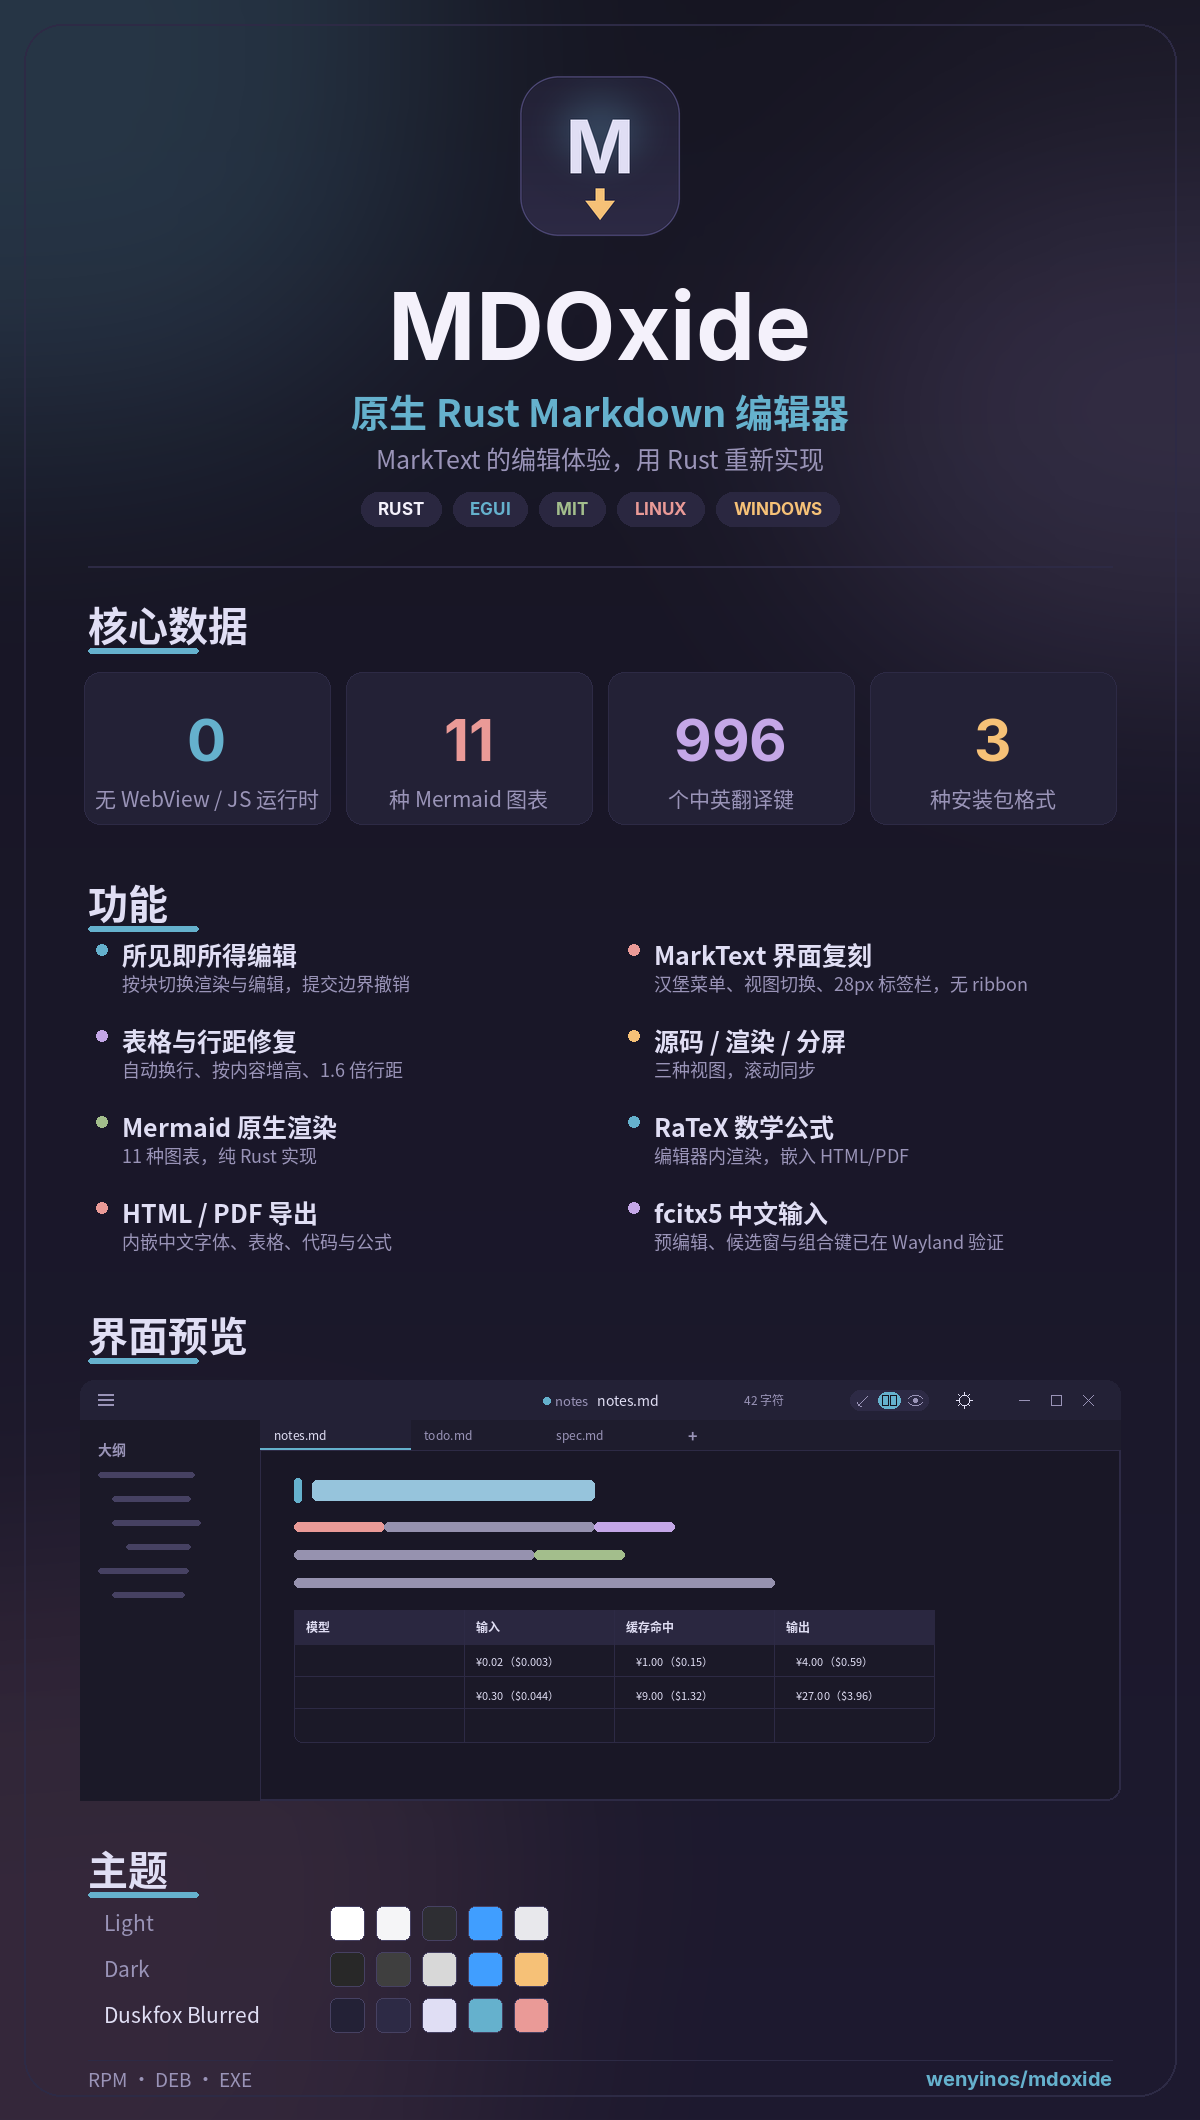
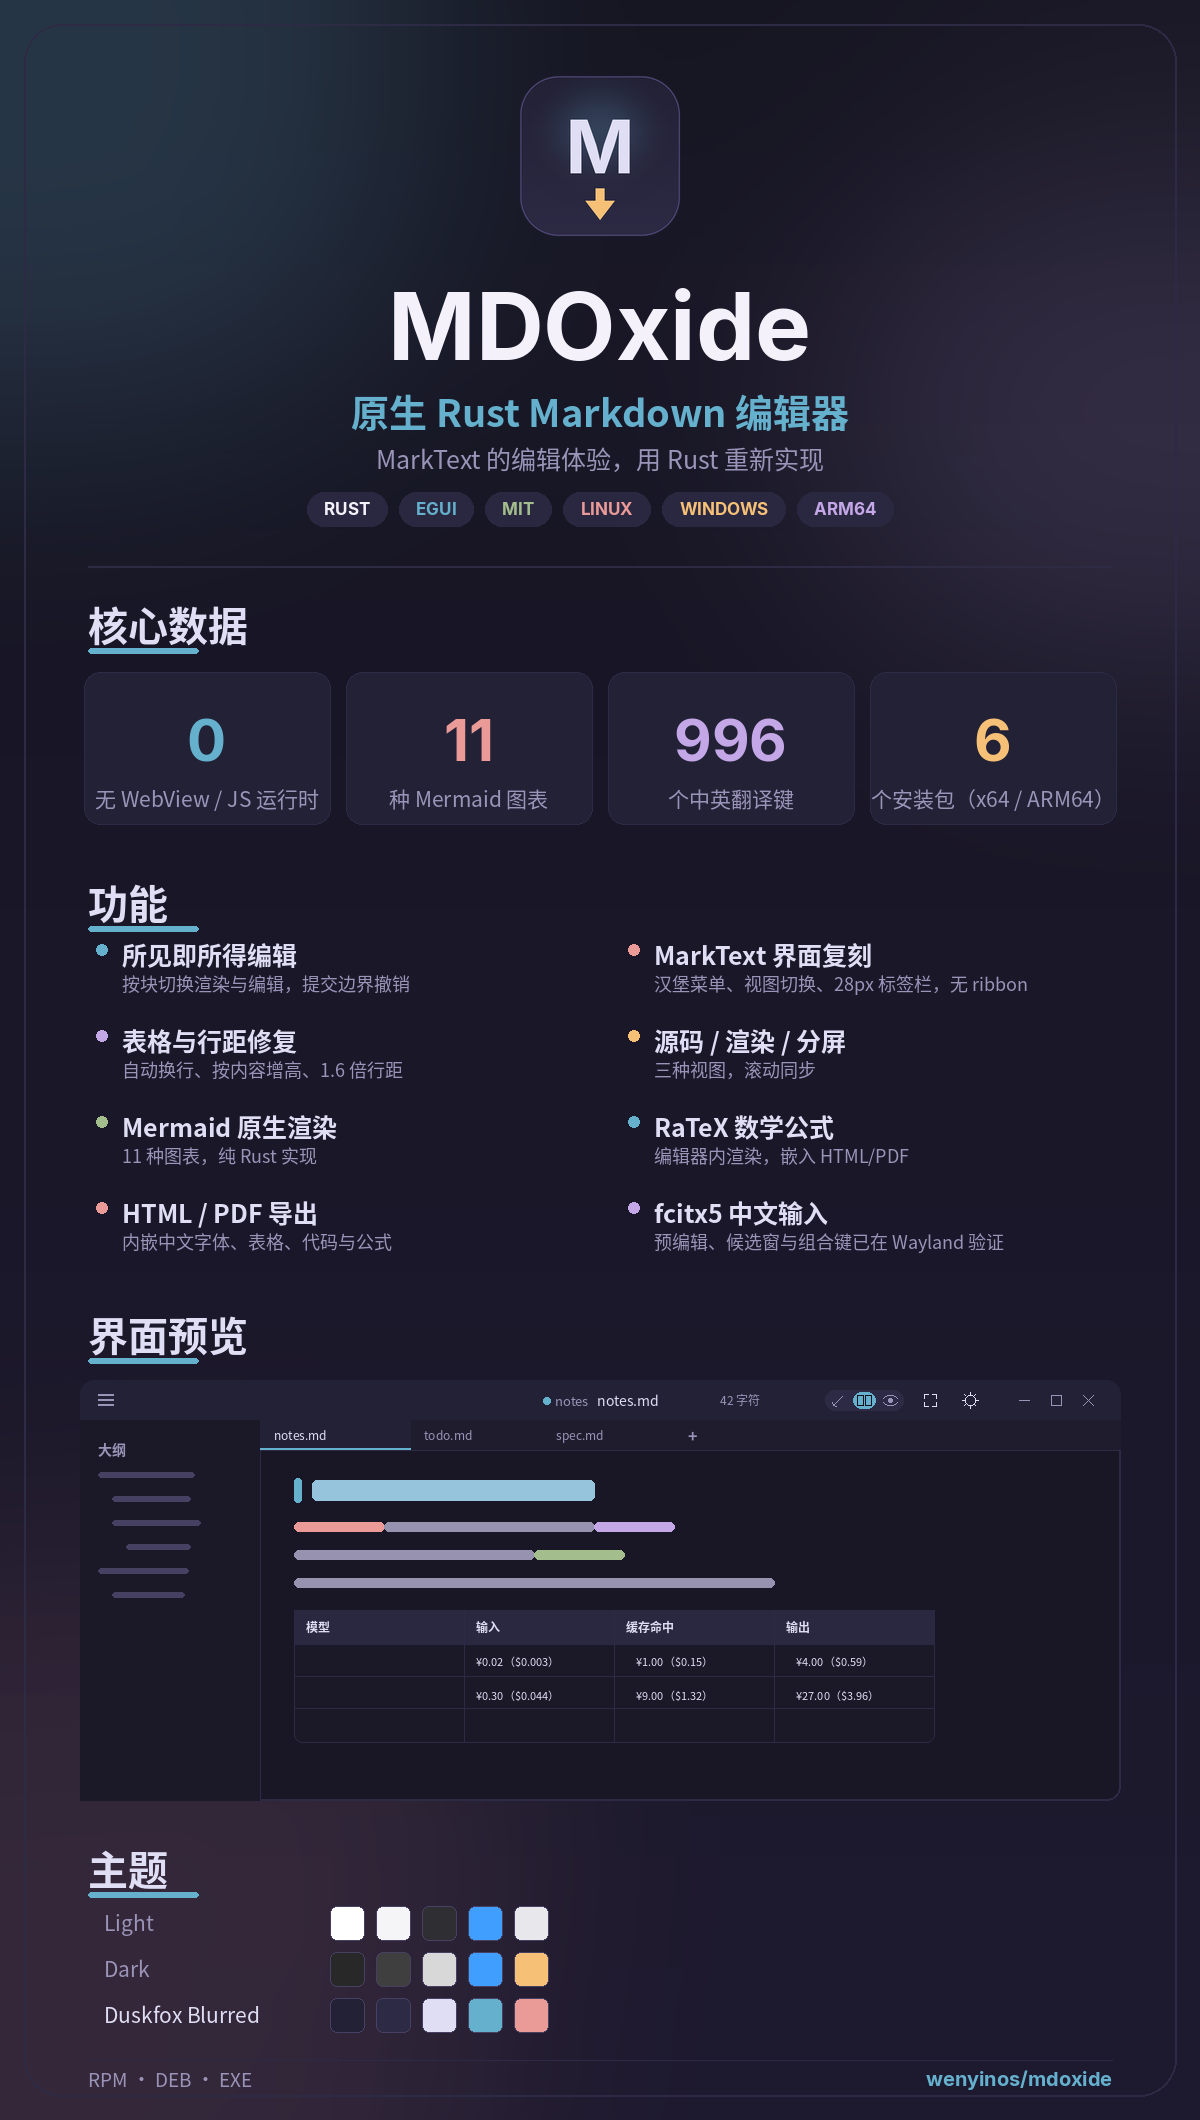
release: v0.3.2 with arm64 builds

Changed region(s): [[0.2467, 0.2179, 0.7092, 0.2491], [0.74, 0.3425, 0.8942, 0.4047], [0.7092, 0.6538, 0.7708, 0.6849]]

diff --git a/site/index.html b/site/index.html
@@ -22,7 +22,7 @@
       <a class="btn primary" href="https://github.com/wenyinos/mdoxide/releases/latest">下载最新版</a>
       <a class="btn" href="https://github.com/wenyinos/mdoxide">GitHub</a>
     </div>
-    <p class="platforms">Linux · Windows</p>
+    <p class="platforms">Linux x86_64 / ARM64 · Windows x64 / ARM64</p>
   </header>
 
   <main>
@@ -35,7 +35,7 @@
         </article>
         <article class="card">
           <h3>MarkText 风格界面</h3>
-          <p>32px 无边框标题栏：汉堡应用菜单、视图切换与设置快捷按钮、居中路径与未保存点；28px 标签栏与主题色下划线。禅模式也保留标签页。</p>
+          <p>32px 无边框标题栏：汉堡应用菜单、视图切换、专注模式与设置快捷按钮、居中路径与未保存点；28px 标签栏与主题色下划线。禅模式也保留标签页。</p>
         </article>
         <article class="card">
           <h3>表格与排版</h3>
@@ -82,14 +82,17 @@
       <div class="install-grid">
         <article class="card">
           <h3>Fedora / RHEL / openSUSE</h3>
+          <p class="muted small">x86_64 · aarch64</p>
           <pre><code>sudo dnf install ./mdoxide-editor-*.rpm</code></pre>
         </article>
         <article class="card">
           <h3>Debian / Ubuntu</h3>
+          <p class="muted small">amd64 · arm64</p>
           <pre><code>sudo apt install ./mdoxide-editor_*.deb</code></pre>
         </article>
         <article class="card">
-          <h3>Windows x64</h3>
+          <h3>Windows</h3>
+          <p class="muted small">x64 · ARM64</p>
           <p>运行最新 Release 中的 <code>MDOxide-*-setup.exe</code>；SmartScreen 提示时选「更多信息 → 仍要运行」。</p>
         </article>
       </div>

diff --git a/docs/release-notes/v0.3.2.md b/docs/release-notes/v0.3.2.md
@@ -1,0 +1,41 @@
+# MDOxide v0.3.2
+
+原生 Rust 写成的所见即所得 Markdown 编辑器。无 WebView、无 Electron、无 JavaScript 运行时。
+
+## 下载 / Downloads
+
+未签名构建，Windows 首次运行可能被 SmartScreen 拦截；请用 `checksums.txt` 核对 SHA256。
+
+Unsigned builds — SmartScreen may block the first launch. Verify with `checksums.txt`.
+
+| 平台 / Platform | 架构 / Arch | 文件 / File | 安装 / Install |
+|---|---|---|---|
+| Fedora / RHEL / openSUSE | x86_64 | `mdoxide-editor-0.3.2-1.x86_64.rpm` | `sudo dnf install ./<file>.rpm` |
+| Fedora / RHEL / openSUSE | aarch64 | `mdoxide-editor-0.3.2-1.aarch64.rpm` | `sudo dnf install ./<file>.rpm` |
+| Debian / Ubuntu | amd64 | `mdoxide-editor_0.3.2-1_amd64.deb` | `sudo apt install ./<file>.deb` |
+| Debian / Ubuntu | arm64 | `mdoxide-editor_0.3.2-1_arm64.deb` | `sudo apt install ./<file>.deb` |
+| Windows | x64 | `MDOxide-0.3.2-x64-setup.exe` | 运行安装包；SmartScreen 选「更多信息 → 仍要运行」 |
+| Windows | ARM64 | `MDOxide-0.3.2-arm64-setup.exe` | 同上；与 x64 安装可并存 |
+
+校验 / Verify：
+
+```bash
+sha256sum -c checksums.txt
+```
+
+## 本版亮点 / Highlights
+
+- **六个发布产物**：Linux RPM/DEB 各提供 x86_64 与 aarch64/arm64，Windows 提供 x64 与 ARM64 安装包
+- **修复标题栏重叠**：视图模式分段切换不再重复占用布局空间，字数统计与模式切换不再叠加，两个控件均可正常点击
+- **恢复专注模式按钮**：标题栏新增专注（Zen）切换按钮，与 F11、菜单项状态同步；专注模式仍保留顶部标签页
+- **ARM64 独立安装**：Windows ARM64 使用独立安装目录、开始菜单与卸载注册表项，可与 x64 版本并存
+
+## 已知限制 / Known limitations
+
+- PDF v1：Mermaid 输出为代码块、图片为占位符、无 bidi 重排
+- 仅支持 Linux 与 Windows，不提供 macOS 构建
+- 背景透明效果依赖桌面合成器；不开窗口模糊时表现为半透明
+
+## 项目 / Project
+
+`wenyinos/mdoxide`
